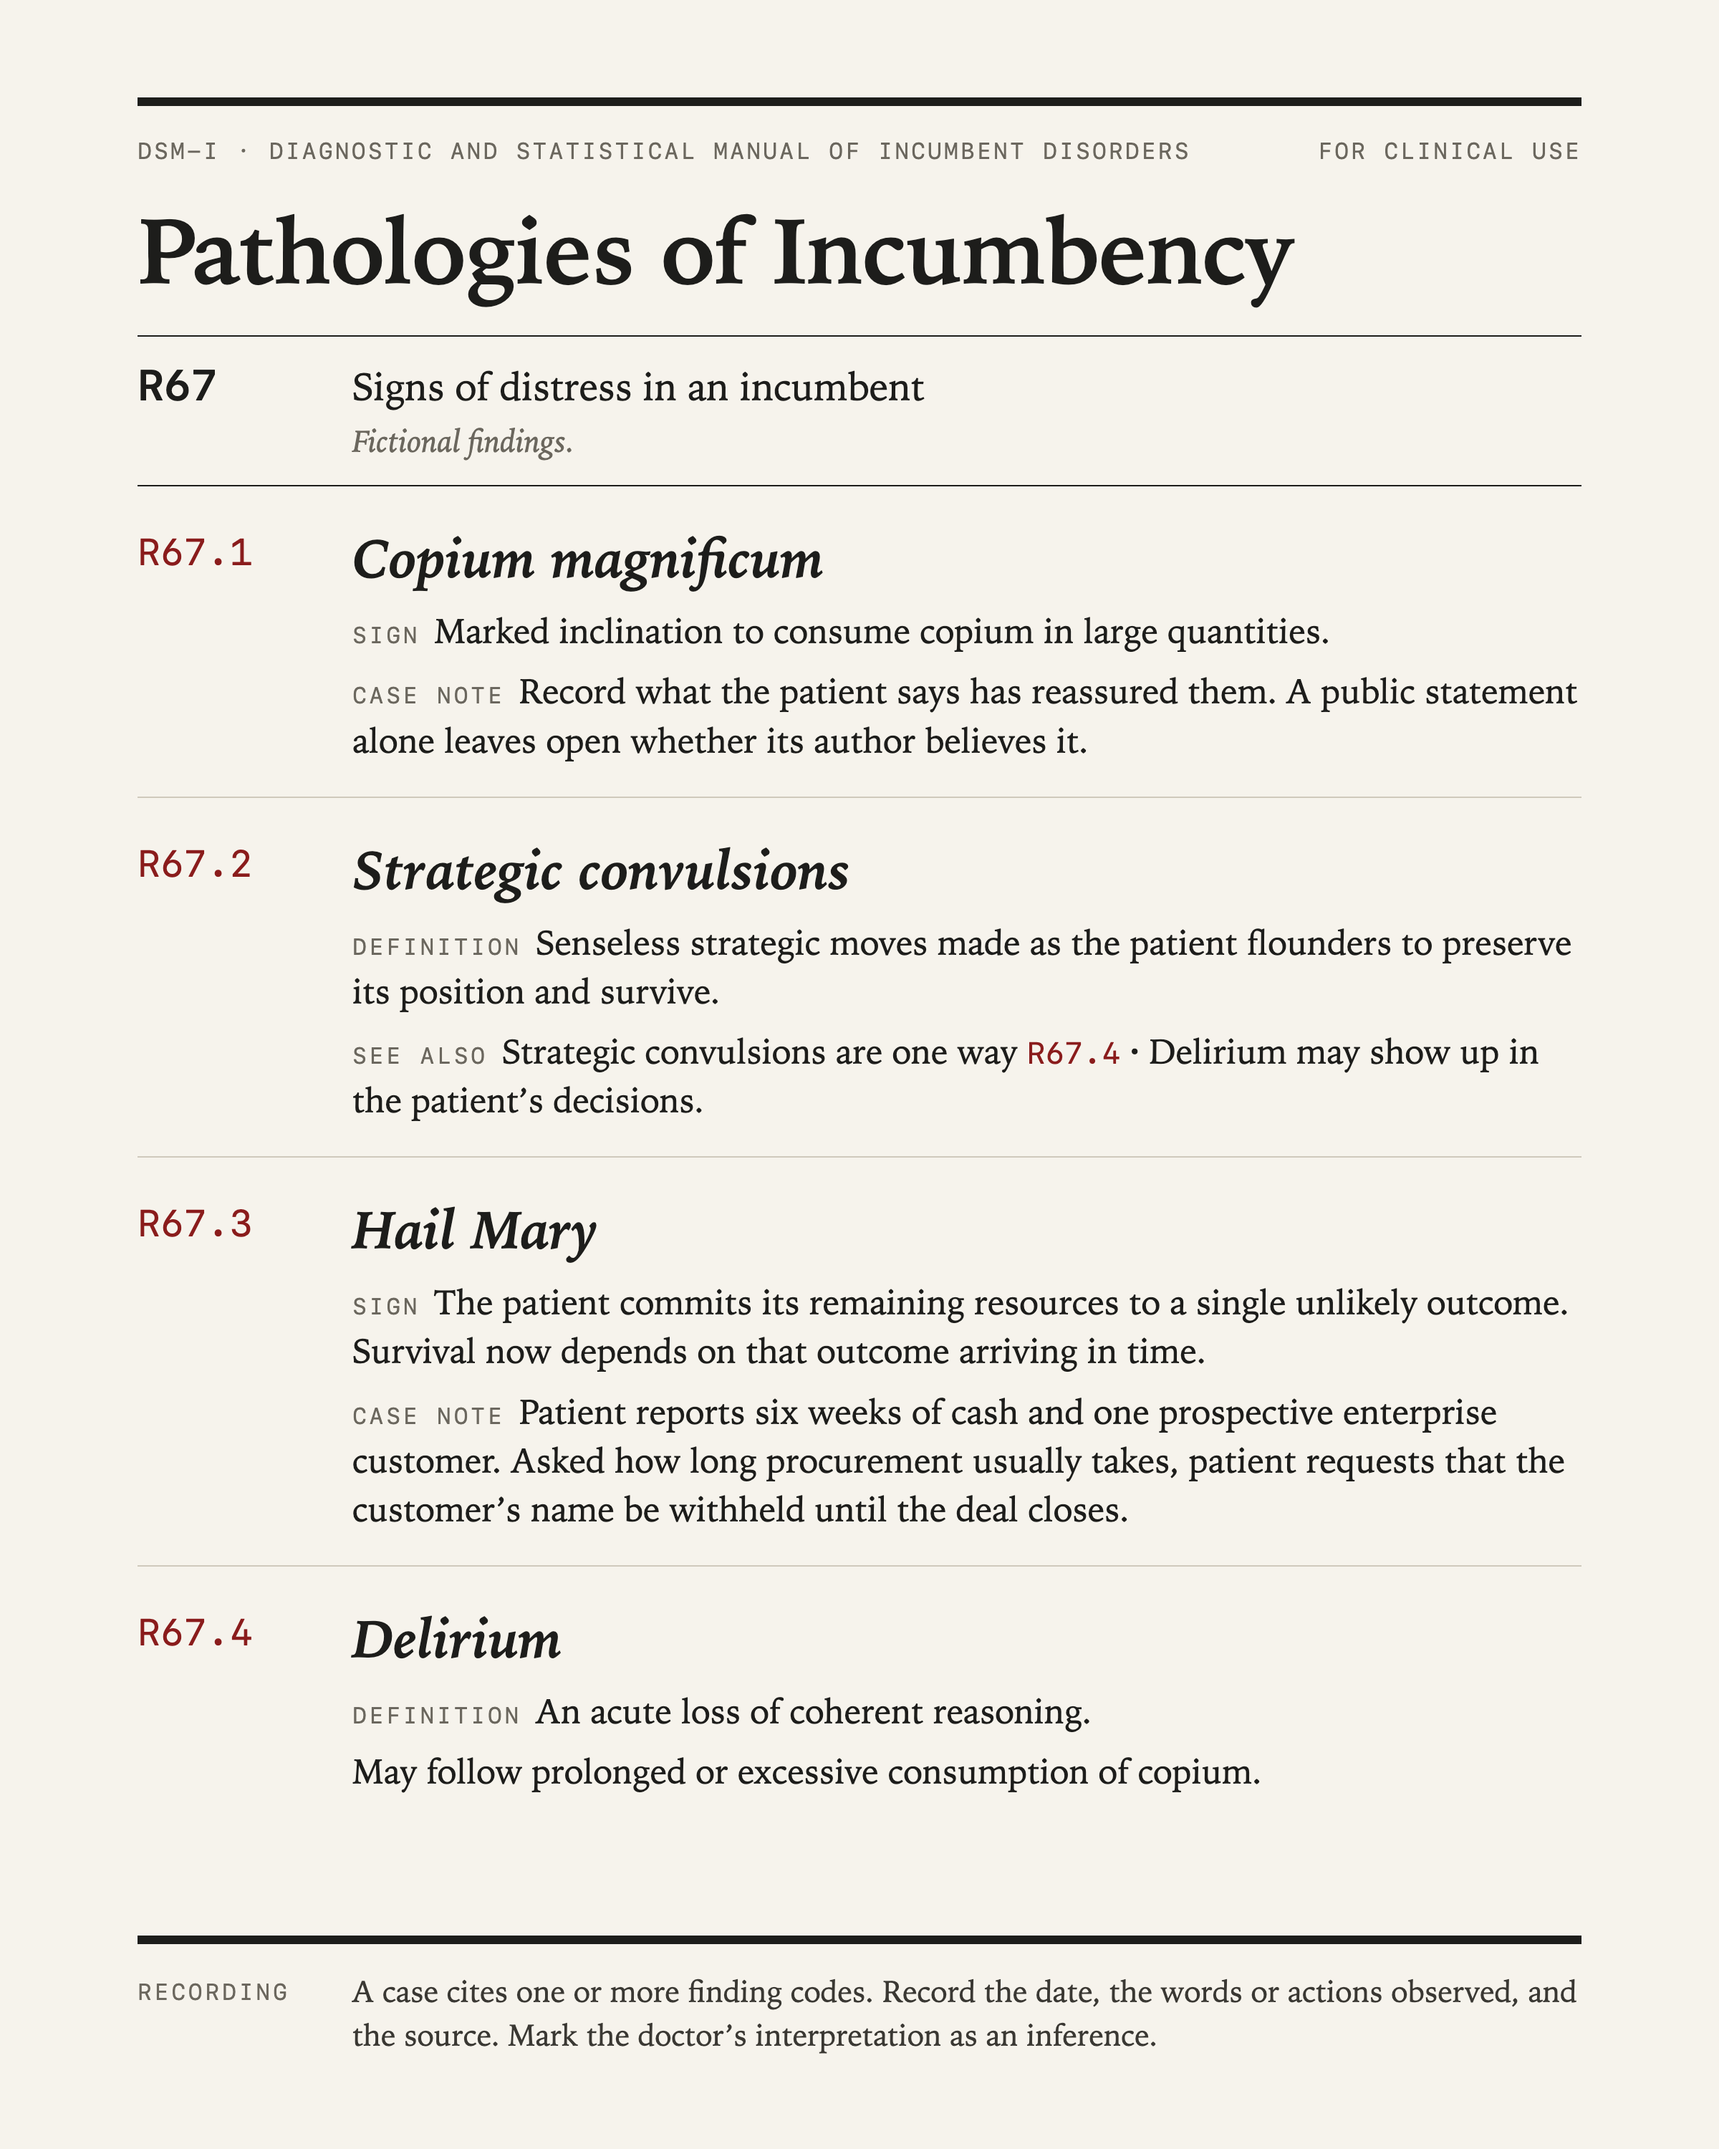
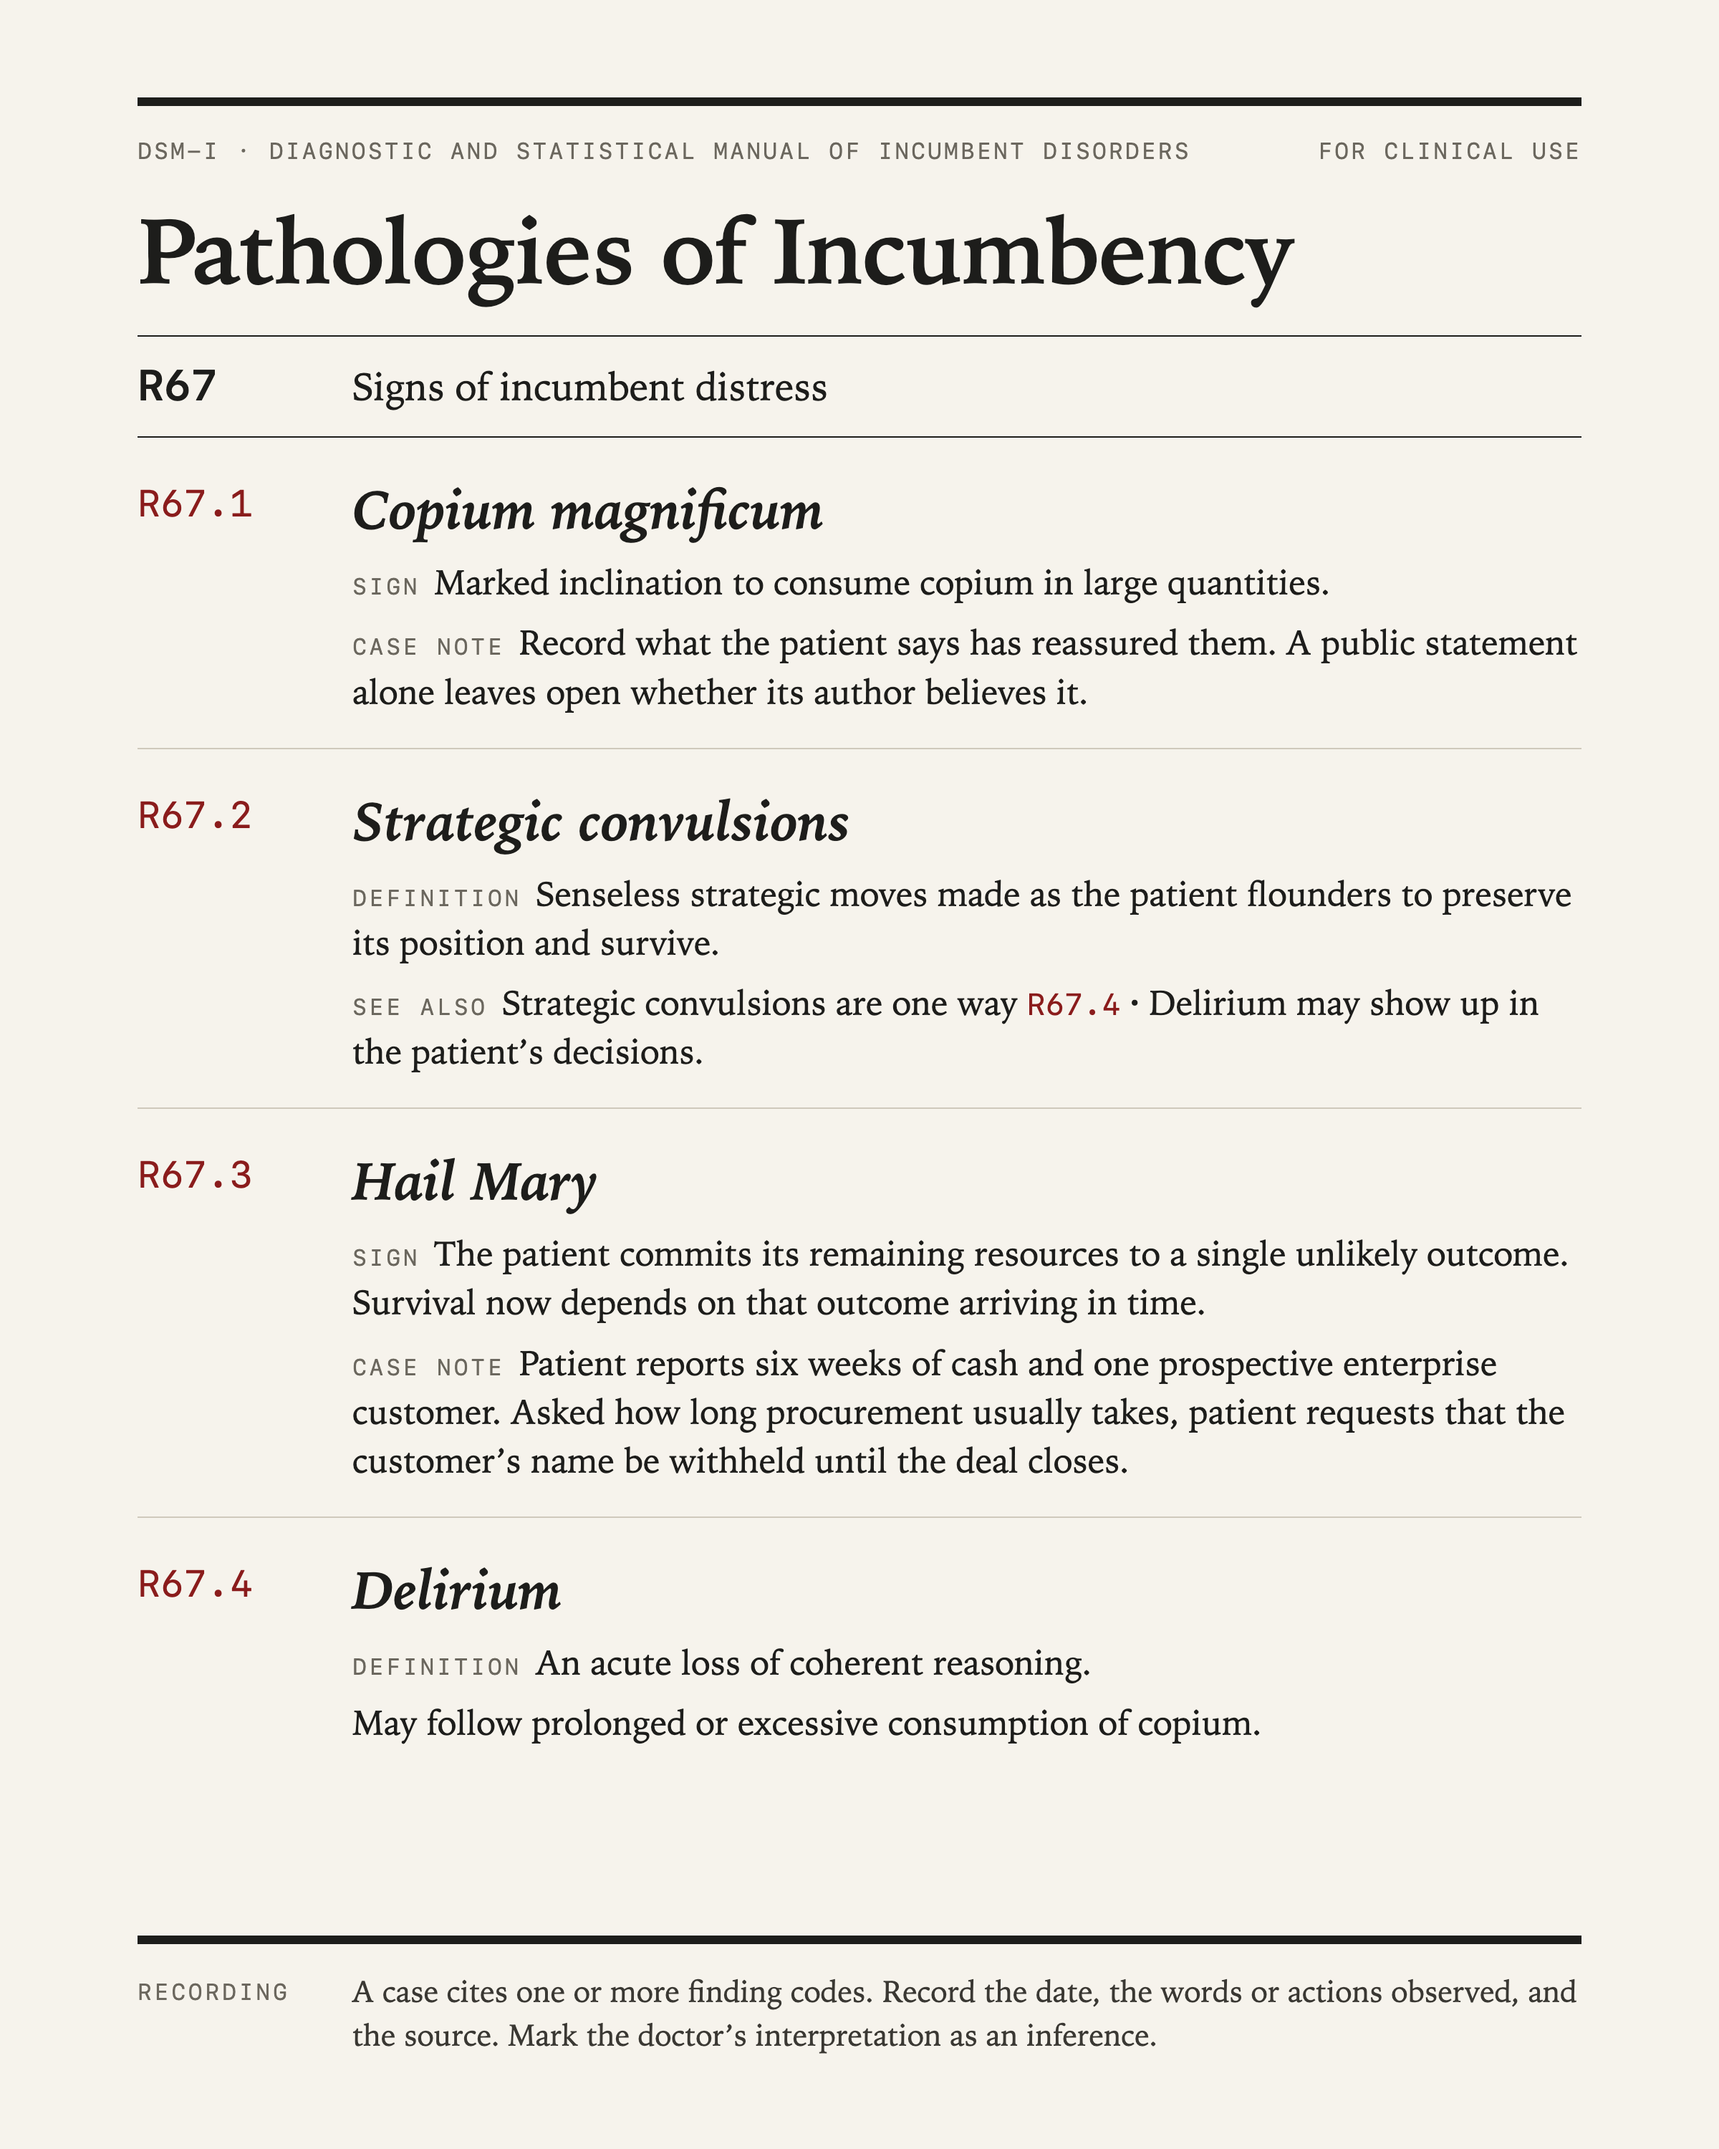
docs: rename R67 to Signs of incumbent distress; drop the fictional-findings note

diff --git a/README.md b/README.md
@@ -4,7 +4,7 @@
 
 ![Pathologies of Incumbency](cards/dsm-i.png)
 
-A clinical reference for the signs of distress in an incumbent company. All findings are fictional. Any resemblance to a company you have been watching is a matter for your own judgment.
+A clinical reference for the signs of incumbent distress. Any resemblance to a company you have been watching is a matter for your own judgment.
 
 ## Contents
 
@@ -16,7 +16,7 @@ A clinical reference for the signs of distress in an incumbent company. All find
 
 ## 1. Classification
 
-R67 · Signs of distress in an incumbent.
+R67 · Signs of incumbent distress.
 
 | Code | Condition |
 |---|---|
